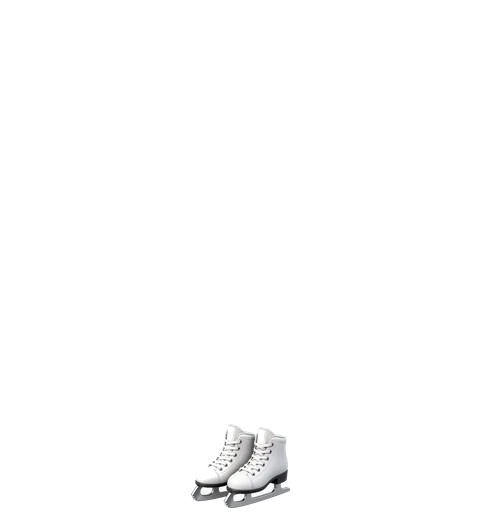
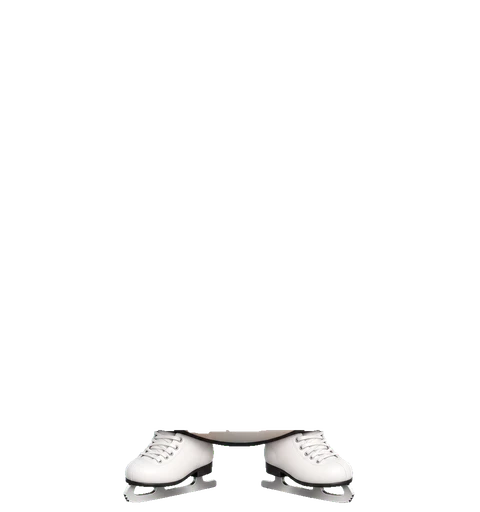
Pinguin: alle Stuecke „am Pinguin anprobiert" (29 neue, 4 aus der Probe)
ChatGPT-Bilder von Emile, ausgeschnitten mit werkzeug/pinguin-anprobe.mjs.
Werkzeug: Bereiche und Aufraeumregeln je Platz (Auren nur ausserhalb des
Pinguins, Flossenstuecke nur rechts), eingeschlossenes Leinwandgruen weg.
Doktorhut und Meisterrobe jetzt als Bild, Spind-Ausschnitte nachgemessen.

Changed region(s): [[0.25, 0.8125, 0.75, 1.0]]

diff --git a/packages/client/src/pinguin.tsx b/packages/client/src/pinguin.tsx
@@ -269,12 +269,12 @@ const AUSSEHEN: Record<string, Aussehen> = {
   },
 
   /*
-   * Doko-Meister (Lernserie, 17.10.2026). Noch ohne gemaltes Bild: Die
-   * Bilderzeugung hatte beim Einbau kein Guthaben, die Bestellung steht in
-   * docs/ASSETS-DOKO-MEISTER.md. Bis dahin traegt die Zeichnung — mit
-   * Verlaeufen, damit sie neben den gemalten Stuecken nicht flach wirkt.
+   * Doko-Meister (Lernserie, 17.10.2026). Gemalt seit dem 21.10.2026 „am
+   * Pinguin anprobiert" (docs/ASSETS-PINGUIN-ANPROBE.md); die Zeichnung
+   * bleibt als Rueckfall, falls das Bild nicht laedt.
    */
   'hut-doktorhut': {
+    bild: '/hub/pinguin/hut-doktorhut.webp',
     zeichnung: (
       <g>
         <defs>
@@ -379,6 +379,7 @@ const AUSSEHEN: Record<string, Aussehen> = {
 
   // Doko-Meister, siehe Doktorhut.
   'oberteil-meisterrobe': {
+    bild: '/hub/pinguin/oberteil-meisterrobe.webp',
     zeichnung: (
       <g>
         <defs>
@@ -780,12 +781,14 @@ function EbeneMitPlatz({ slot, itemId, bewegt }: { slot: Slot; itemId: string | 
  * schneidet `StueckAllein` das Stueck fuer die Faecher im Spind aus.
  */
 const AUSSCHNITT: Readonly<Record<Slot, string>> = {
-  hut: '36 -6 168 94',
-  brille: '78 44 84 60',
-  oberteil: '44 98 152 122',
-  schuhe: '62 204 116 56',
-  hand: '154 94 92 128',
-  aura: '0 0 240 256',
+  // Nachgemessen am 21.10.2026 für die angezogenen Stücke: Ärmel reichen
+  // weiter, Wanderstab und Monokelkette tiefer als die alten Einzelbilder.
+  hut: '34 -6 171 80',
+  brille: '58 44 123 94',
+  oberteil: '25 97 189 138',
+  schuhe: '54 206 131 54',
+  hand: '130 84 101 172',
+  aura: '-6 -5 251 261',
 };
 
 /**
